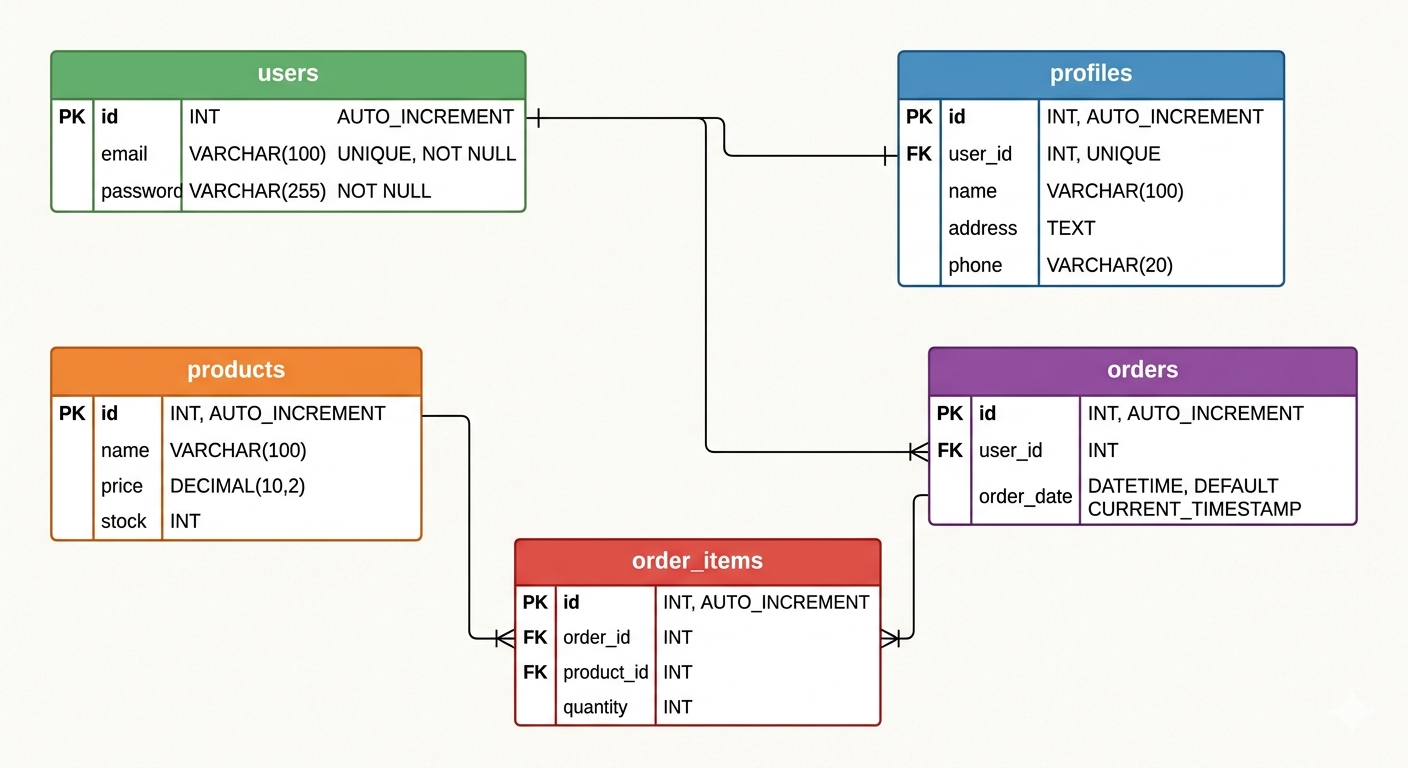
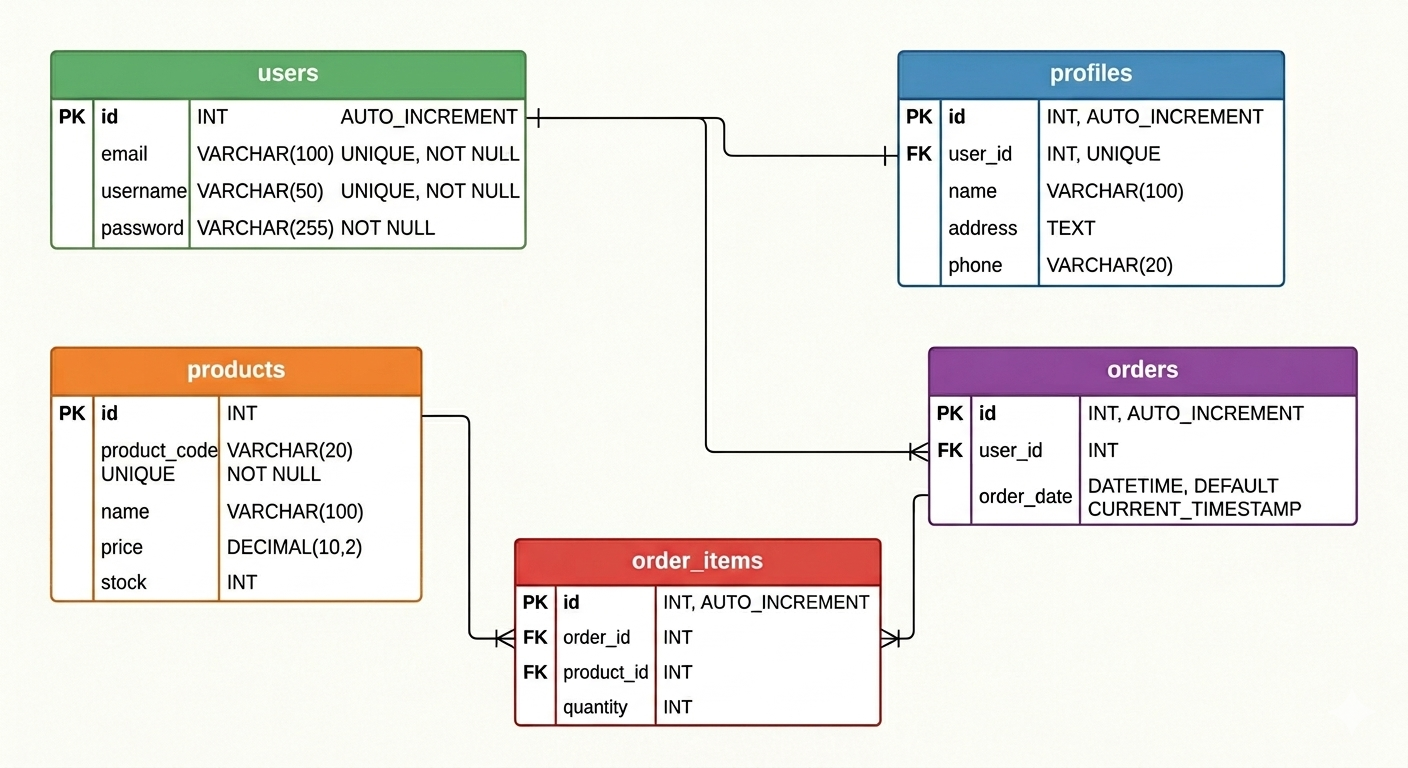
yurz

diff --git a/template_analisis.md b/template_analisis.md
@@ -1,0 +1,102 @@
+ERD Title: Clothing Store System
+1. Entities and Their Attributes:
+Entity: users
+
+Attributes:
+
+id (PK, AI, INT)
+
+username (VARCHAR, UNIQUE, NOT NULL) [NEW]
+
+email (VARCHAR, UNIQUE, NOT NULL)
+
+password (VARCHAR, NOT NULL)
+
+Entity: profiles
+
+Attributes:
+
+id (PK, AI, INT)
+
+user_id (FK, UNIQUE, INT)
+
+name (VARCHAR)
+
+address (TEXT)
+
+phone (VARCHAR)
+
+Entity: products
+
+Attributes:
+
+id (PK, AI, INT)
+
+product_code (VARCHAR, UNIQUE, NOT NULL) [NEW]
+
+name (VARCHAR)
+
+price (DECIMAL/FLOAT)
+
+stock (INT)
+
+Entity: orders
+
+Attributes:
+
+id (PK, AI, INT)
+
+user_id (FK, INT)
+
+order_date (DATETIME)
+
+Entity: order_items
+
+Attributes:
+
+id (PK, AI, INT)
+
+order_id (FK, INT)
+
+product_id (FK, INT)
+
+quantity (INT)
+
+2. Relationships:
+users to profiles:
+
+Type: One to One
+
+Description: Setiap satu akun user (diidentifikasi via username) memiliki tepat satu profile.
+
+users to orders:
+
+Type: One to Many
+
+Description: Satu user dapat melakukan banyak transaksi orders, namun satu transaksi hanya dimiliki oleh satu user.
+
+orders to order_items:
+
+Type: One to Many
+
+Description: Satu transaksi orders dapat memuat banyak detail barang di order_items.
+
+products to order_items:
+
+Type: One to Many
+
+Description: Satu produk (diidentifikasi via product_code) dapat muncul di berbagai baris transaksi order_items.
+
+3. Integrity Constraints:
+Uniqueness: username dan email pada tabel users, serta product_code pada tabel products harus bersifat unik untuk mencegah data ganda.
+
+Positive Value: Harga (price) pada tabel products dan quantity pada order_items harus berupa angka positif.
+
+Referential Integrity: order_id dan product_id pada order_items harus merujuk pada ID yang valid di tabel master masing-masing.
+
+4. Additional Notes:
+Penggunaan product_code mempermudah pencarian barang di aplikasi CLI tanpa harus menghafal ID (Auto Increment).
+
+Username digunakan sebagai identitas unik saat proses Login di aplikasi Golang.
+
+Sistem menggunakan tabel order_items untuk memfasilitasi hubungan Many-to-Many antara pesanan dan produk pakaian.
